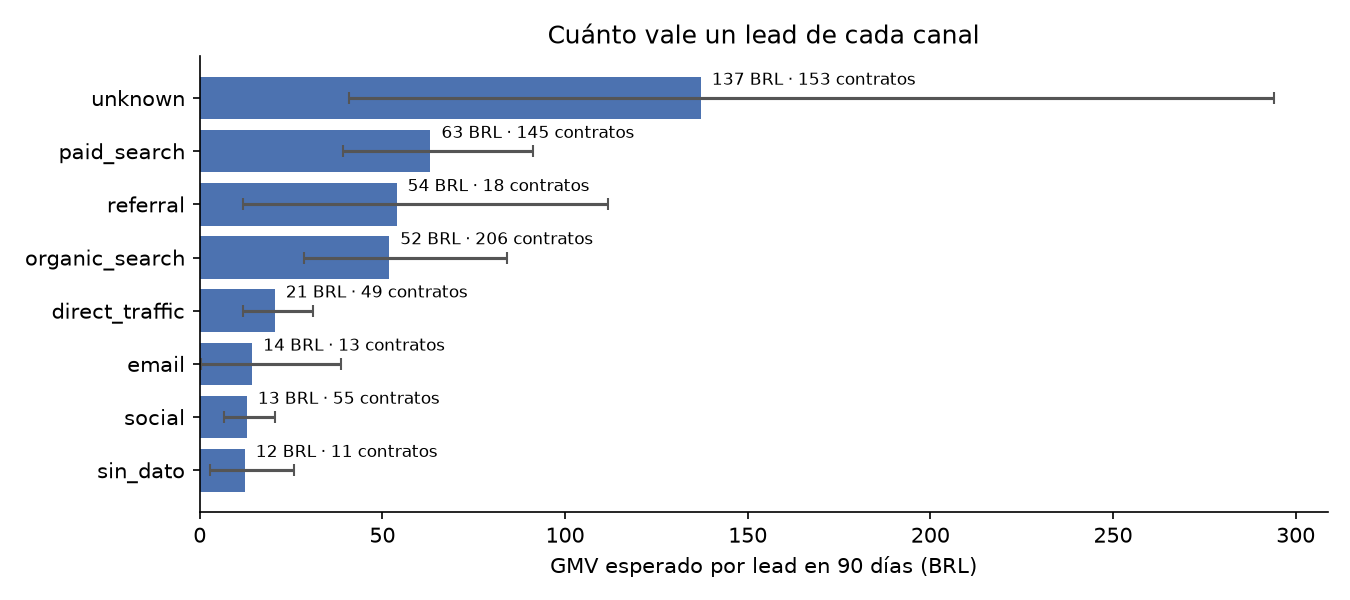
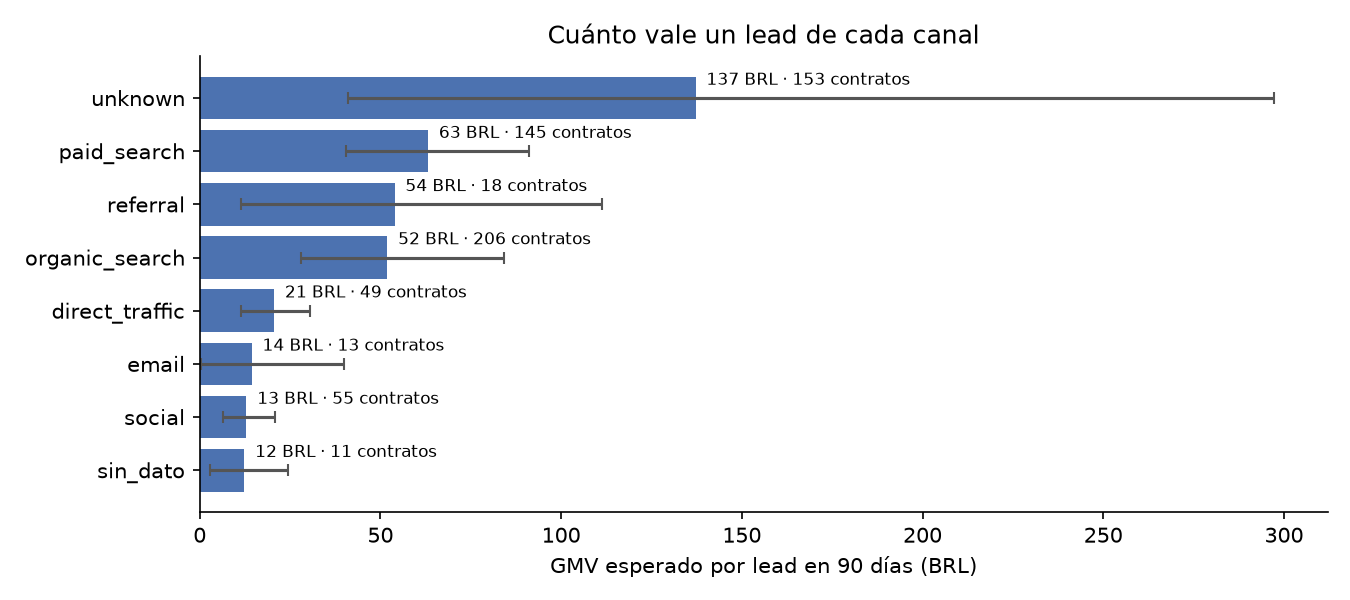
feat: decisión 002 (ventana de 90 días, comisión 15% como parámetro), conclusiones de los notebooks 01 y 02 y bootstrap reproducible
Claude-Session: https://claude.ai/code/session_01NL84xGMcCgtHhx8LG1BUi6

diff --git a/src/growth_lab/embudo.py b/src/growth_lab/embudo.py
@@ -14,6 +14,7 @@ Solo usa tablas publicadas en data/processed, así que se reproduce sin descarga
 Supuestos (decisión 002):
 - Un pedido cuenta para el GMV si no está cancelado ni indisponible.
 - GMV = suma de `price` de los ítems (sin flete), en BRL.
+- Ingreso de Olist = GMV × `COMISION` (15% supuesto, parámetro visible).
 - Un contrato está **maduro** si `won_date + ventana <= CORTE`; solo los maduros entran
   al valor esperado, para no castigar a los canales que cerraron tarde.
 """
@@ -30,6 +31,7 @@ from growth_lab import db
 
 CORTE = "2018-08-29"  # último pedido de Olist
 VENTANA_DIAS = 90
+COMISION = 0.15  # supuesto: Olist no publica su comisión; sensibilidad 10%–20% (decisión 002)
 ESTADOS_EXCLUIDOS = ("canceled", "unavailable")
 
 _VENTAS = f"""
@@ -64,6 +66,7 @@ def _sql_leads(ventana_dias: int, corte: str) -> str:
            coalesce(v.pedidos, 0) AS pedidos, coalesce(v.gmv, 0) AS gmv
     FROM marketing_qualified_leads m
     LEFT JOIN valor v USING (mql_id)
+    ORDER BY m.mql_id  -- orden fijo: el bootstrap remuestrea por posición
     """
 
 
@@ -75,6 +78,7 @@ def embudo_canal(
     con: duckdb.DuckDBPyConnection,
     ventana_dias: int = VENTANA_DIAS,
     corte: str = CORTE,
+    comision: float = COMISION,
     n_boot: int = 2000,
     semilla: int = 0,
 ) -> pd.DataFrame:
@@ -98,6 +102,9 @@ def embudo_canal(
     ic = {c: ic_gmv_por_lead(g, n_boot, semilla) for c, g in leads(con, ventana_dias, corte).groupby("canal")}
     t["gmv_por_lead_p05"] = t.canal.map(lambda c: ic[c][0])
     t["gmv_por_lead_p95"] = t.canal.map(lambda c: ic[c][1])
+    for col in ("gmv_por_lead", "gmv_por_lead_p05", "gmv_por_lead_p95"):
+        t[col.replace("gmv", "ingreso")] = t[col] * comision
+    t["comision"] = comision
     t["ventana_dias"] = ventana_dias
     return t.sort_values("leads", ascending=False, ignore_index=True)
 
@@ -207,6 +214,6 @@ if __name__ == "__main__":
     s = generar(ventana)
     pd.set_option("display.width", 160)
     cols = ["canal", "leads", "tasa_cierre", "cerrados_maduros", "tasa_venta_si_cierra", "gmv_por_contrato",
-            "gmv_por_lead", "gmv_por_lead_p05", "gmv_por_lead_p95"]
+            "gmv_por_lead", "gmv_por_lead_p05", "gmv_por_lead_p95", "ingreso_por_lead"]
     print(s["embudo_canal"][cols].round(3).to_string(index=False))
     print(f"\nCohortes: {s['cohortes_compradores'].cohorte.nunique()} · meses KPI: {len(s['kpis_mensuales'])}")

diff --git a/tests/test_embudo.py b/tests/test_embudo.py
@@ -52,6 +52,7 @@ def test_embudo_respeta_ventana_madurez_y_estado(con):
     assert ps.gmv_maduros == pytest.approx(100.0)  # solo o2
     assert ps.tasa_cierre == pytest.approx(2 / 3)
     assert ps.gmv_por_lead == pytest.approx(2 / 3 * 100.0)
+    assert ps.ingreso_por_lead == pytest.approx(ps.gmv_por_lead * embudo.COMISION)
     email = t.loc["email"]
     assert email.cerrados == 0 and np.isnan(email.gmv_por_lead)
 

diff --git a/docs/decisiones.md b/docs/decisiones.md
@@ -20,19 +20,21 @@ Cada decisión importante del proyecto queda aquí, **escrita por Neider**: qué
 - **Decisión:** **C) Ciclo completo, de punta a punta.** La pregunta del lab es cuánto invertir en **captar** (canales del embudo de Olist) y cuánto en **retener** (campañas y cupones de Complete Journey), con experimentos, atribución y MMM para medir lo incremental, y un agente que responda y proponga el reparto con aprobación humana.
 - **Métrica de éxito:** valor incremental por dólar invertido (ROI incremental) en cada palanca: canal de captación, campaña de retención y canal de medios. Cada sesión reporta su pieza en esa unidad o deja claro por qué no se puede.
 - **Datos en el repo:** todo en Parquet (zstd). Se publican en `data/processed/` las fuentes con licencia que lo permite (Olist sin texto libre ni geolocalización fina, Hillstrom, benchmark de atribución) y los derivados de cada sesión. De Complete Journey y Lenta solo se publican agregados.
-- **Por qué (en mis palabras):** "hagamos el ciclo completo, end to end, la gracia es tener muy enriquecido el lab en git" _(Neider puede ampliarlo)_.
+- **Por qué (en mis palabras):** Quiero el ciclo completo, de punta a punta, porque en la vida real el presupuesto se reparte entre captar y retener, y cada fuente sirve para una parte distinta. La gracia es que el lab quede muy completo en GitHub: datos en Parquet que cualquiera pueda usar, modelos, experimentos y un agente que conecte todo.
 
 ---
 
 ## 002 — Valor de un lead: ventana y definición
 
-- **Fecha:** 2026-11-10
+- **Fecha:** 2026-11-13
 - **Contexto** (`notebooks/02_embudo_cohortes.ipynb`, `python -m growth_lab.embudo`):
   - Valor de un lead = P(cierre) × GMV medio de los contratos **maduros** en sus primeros N días. Un contrato está maduro si `won_date + N` cae antes del último pedido (29-ago-2018); si no, no entra al promedio para no castigar a los canales que cerraron tarde.
-  - Con **90 días**: búsqueda pagada 63 BRL por lead (IC 90% [40; 94]), referidos 54 [12; 110], orgánica 52 [29; 83], tráfico directo 21 [11; 31], e-mail 14 [0; 39] y social 13 [6; 21]. Pagada y orgánica no se distinguen entre sí, pero ambas superan con claridad a social y directo.
-  - **El orden cambia con la ventana:** a 180 días la orgánica (132) supera a la pagada (82), pero con solo 67 y 39 contratos maduros. A 60 días están empatadas (37 y 39).
-  - El canal `unknown` vale 137 BRL por lead (IC [41; 293]). Probablemente son leads que llegaron por el equipo comercial sin canal registrado; no se puede invertir en él.
-  - GMV = `price` de los ítems sin flete, en BRL, sin pedidos cancelados ni indisponibles. Olist no publica su comisión, así que el valor es GMV, no margen.
-- **Opciones:** ventana de 60, 90, 120 o 180 días; valor como GMV o como comisión supuesta (p. ej. 10–20% del GMV, dejándola como parámetro).
-- **Decisión:** _(por escribir; la implementación usa 90 días y GMV como valor por defecto)_
-- **Por qué (en mis palabras):** _(por escribir)_
+  - Contratos maduros según la ventana: 722 (60 días), 663 (90), 543 (120) y 194 (180), de 842 cerrados.
+  - A 90 días: búsqueda pagada 63 BRL por lead (IC 90% [40; 91]), referidos 54 [11; 111], orgánica 52 [28; 84], tráfico directo 21 [11; 30], e-mail 14 [0; 40] y social 13 [6; 21].
+  - El orden cambia con la ventana: a 60 días pagada y orgánica empatan (39 y 37); a 180 días la orgánica (132) supera a la pagada (82), pero con muy pocos contratos.
+  - GMV = `price` de los ítems sin flete, en BRL, sin pedidos cancelados ni indisponibles. Olist no publica su comisión.
+- **Opciones:** ventana de 60, 90, 120 o 180 días; valor como solo GMV, comisión fija o GMV con comisión como parámetro.
+- **Decisión:**
+  - **Ventana de 90 días.** 60, 120 y 180 quedan como sensibilidad en el notebook 02.
+  - **El modelo trabaja en GMV** y el ingreso de Olist se calcula con una **comisión supuesta del 15%** (`embudo.COMISION`), con sensibilidad de 10% a 20%. Con eso, un lead de búsqueda pagada deja unos 9,5 BRL de ingreso y uno de orgánica 7,8.
+- **Por qué (en mis palabras):** Con 90 días veo ventas reales del vendedor sin perder demasiados contratos: me quedo con 663 de 842. A 180 días el orden de los canales cambia, pero con 194 contratos es ruido, no señal. Uso GMV porque es lo que se observa, y la comisión la dejo como parámetro visible porque cuando compare contra el costo de captación necesito ingreso, no ventas.

diff --git a/README.md b/README.md
@@ -13,7 +13,7 @@
 
 | Pieza | Resultado | Decisión |
 |---|---|---|
-| Valor de un lead | A 90 días, un lead de búsqueda pagada vale 63 BRL de GMV (IC 90% [40; 94]) y uno de orgánica 52 [29; 83]: no se distinguen, pero ambos valen de 4 a 5 veces más que uno de social (13 [6; 21]). El orden entre pagada y orgánica cambia según la ventana | 002 |
+| Valor de un lead | A 90 días, un lead de búsqueda pagada vale 63 BRL de GMV (IC 90% [40; 91]) y uno de orgánica 52 [28; 84]: no se distinguen, pero ambos valen de 4 a 5 veces más que uno de social (13 [6; 21]). Con una comisión supuesta del 15%, eso es 9,5 y 7,8 BRL de ingreso por lead. Elegí 90 días: a 180 el orden cambia, pero con solo 194 contratos | 002 |
 | Recompra | Del 0,8% al primer mes al 3,1% a los 12 meses, estable entre cohortes: el CLV se trabaja con Complete Journey | 001 |
 | Operación | Los meses con más entregas tarde (nov-2017, feb–mar-2018: 14–21%) son los de peor reseña (correlación mensual −0,81) | — |
 
